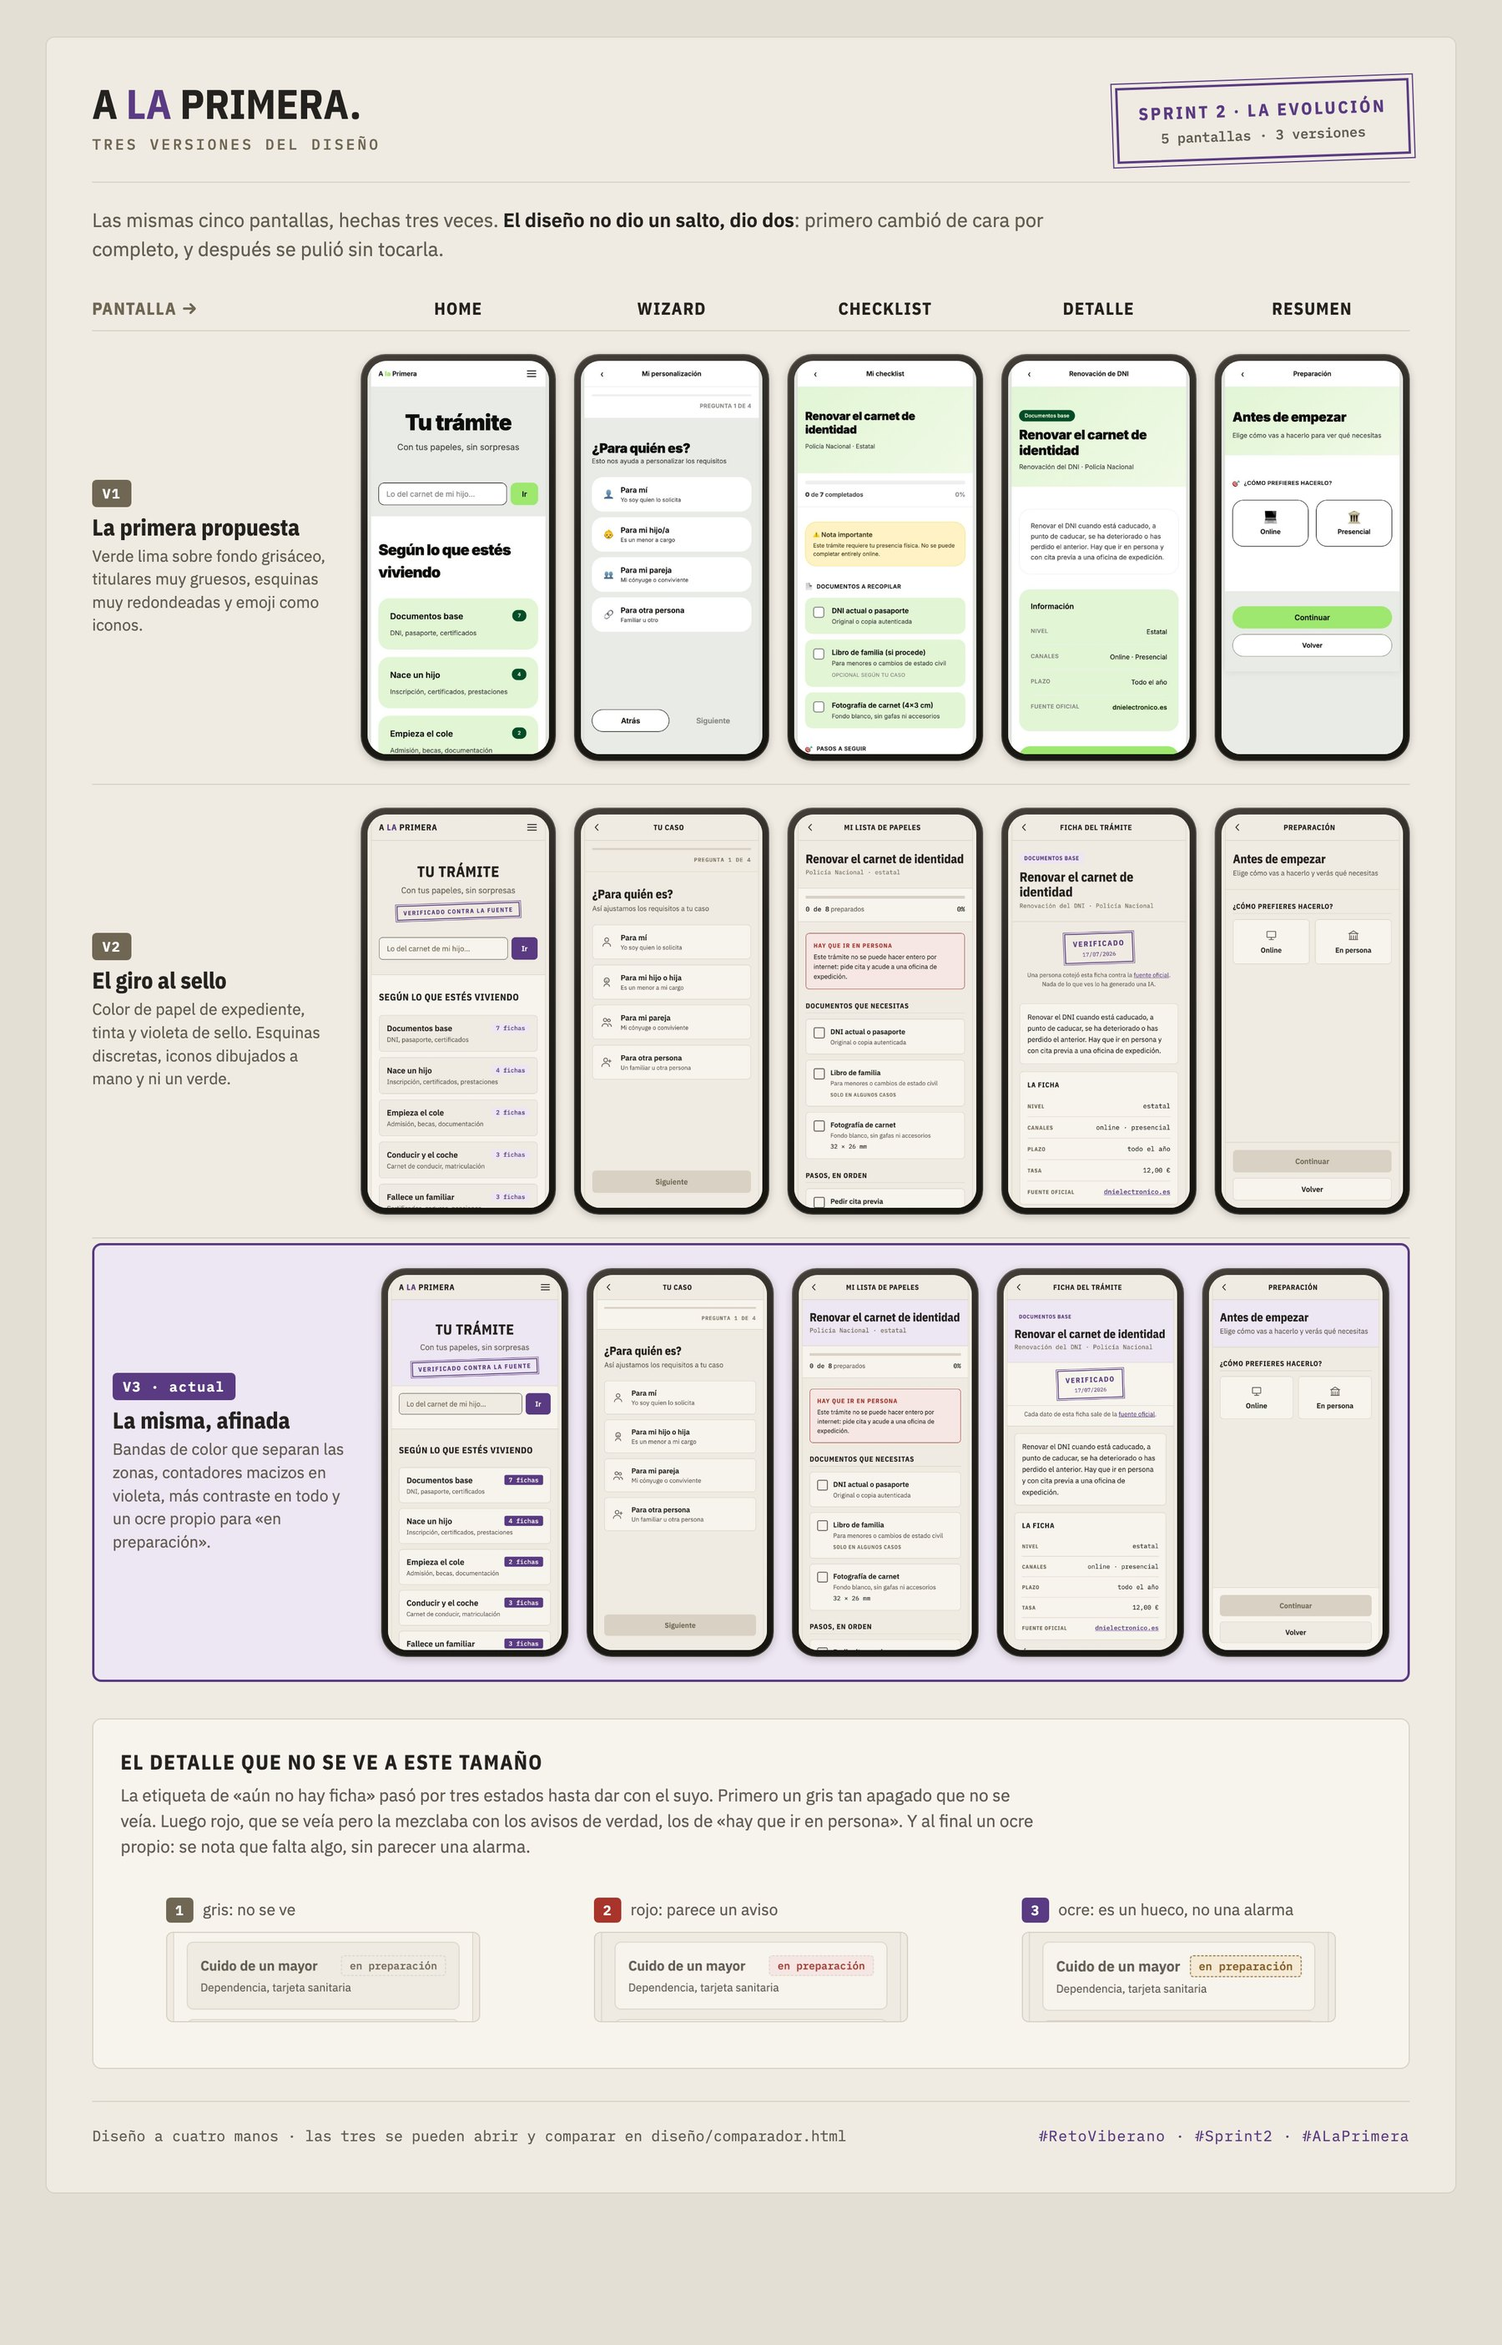
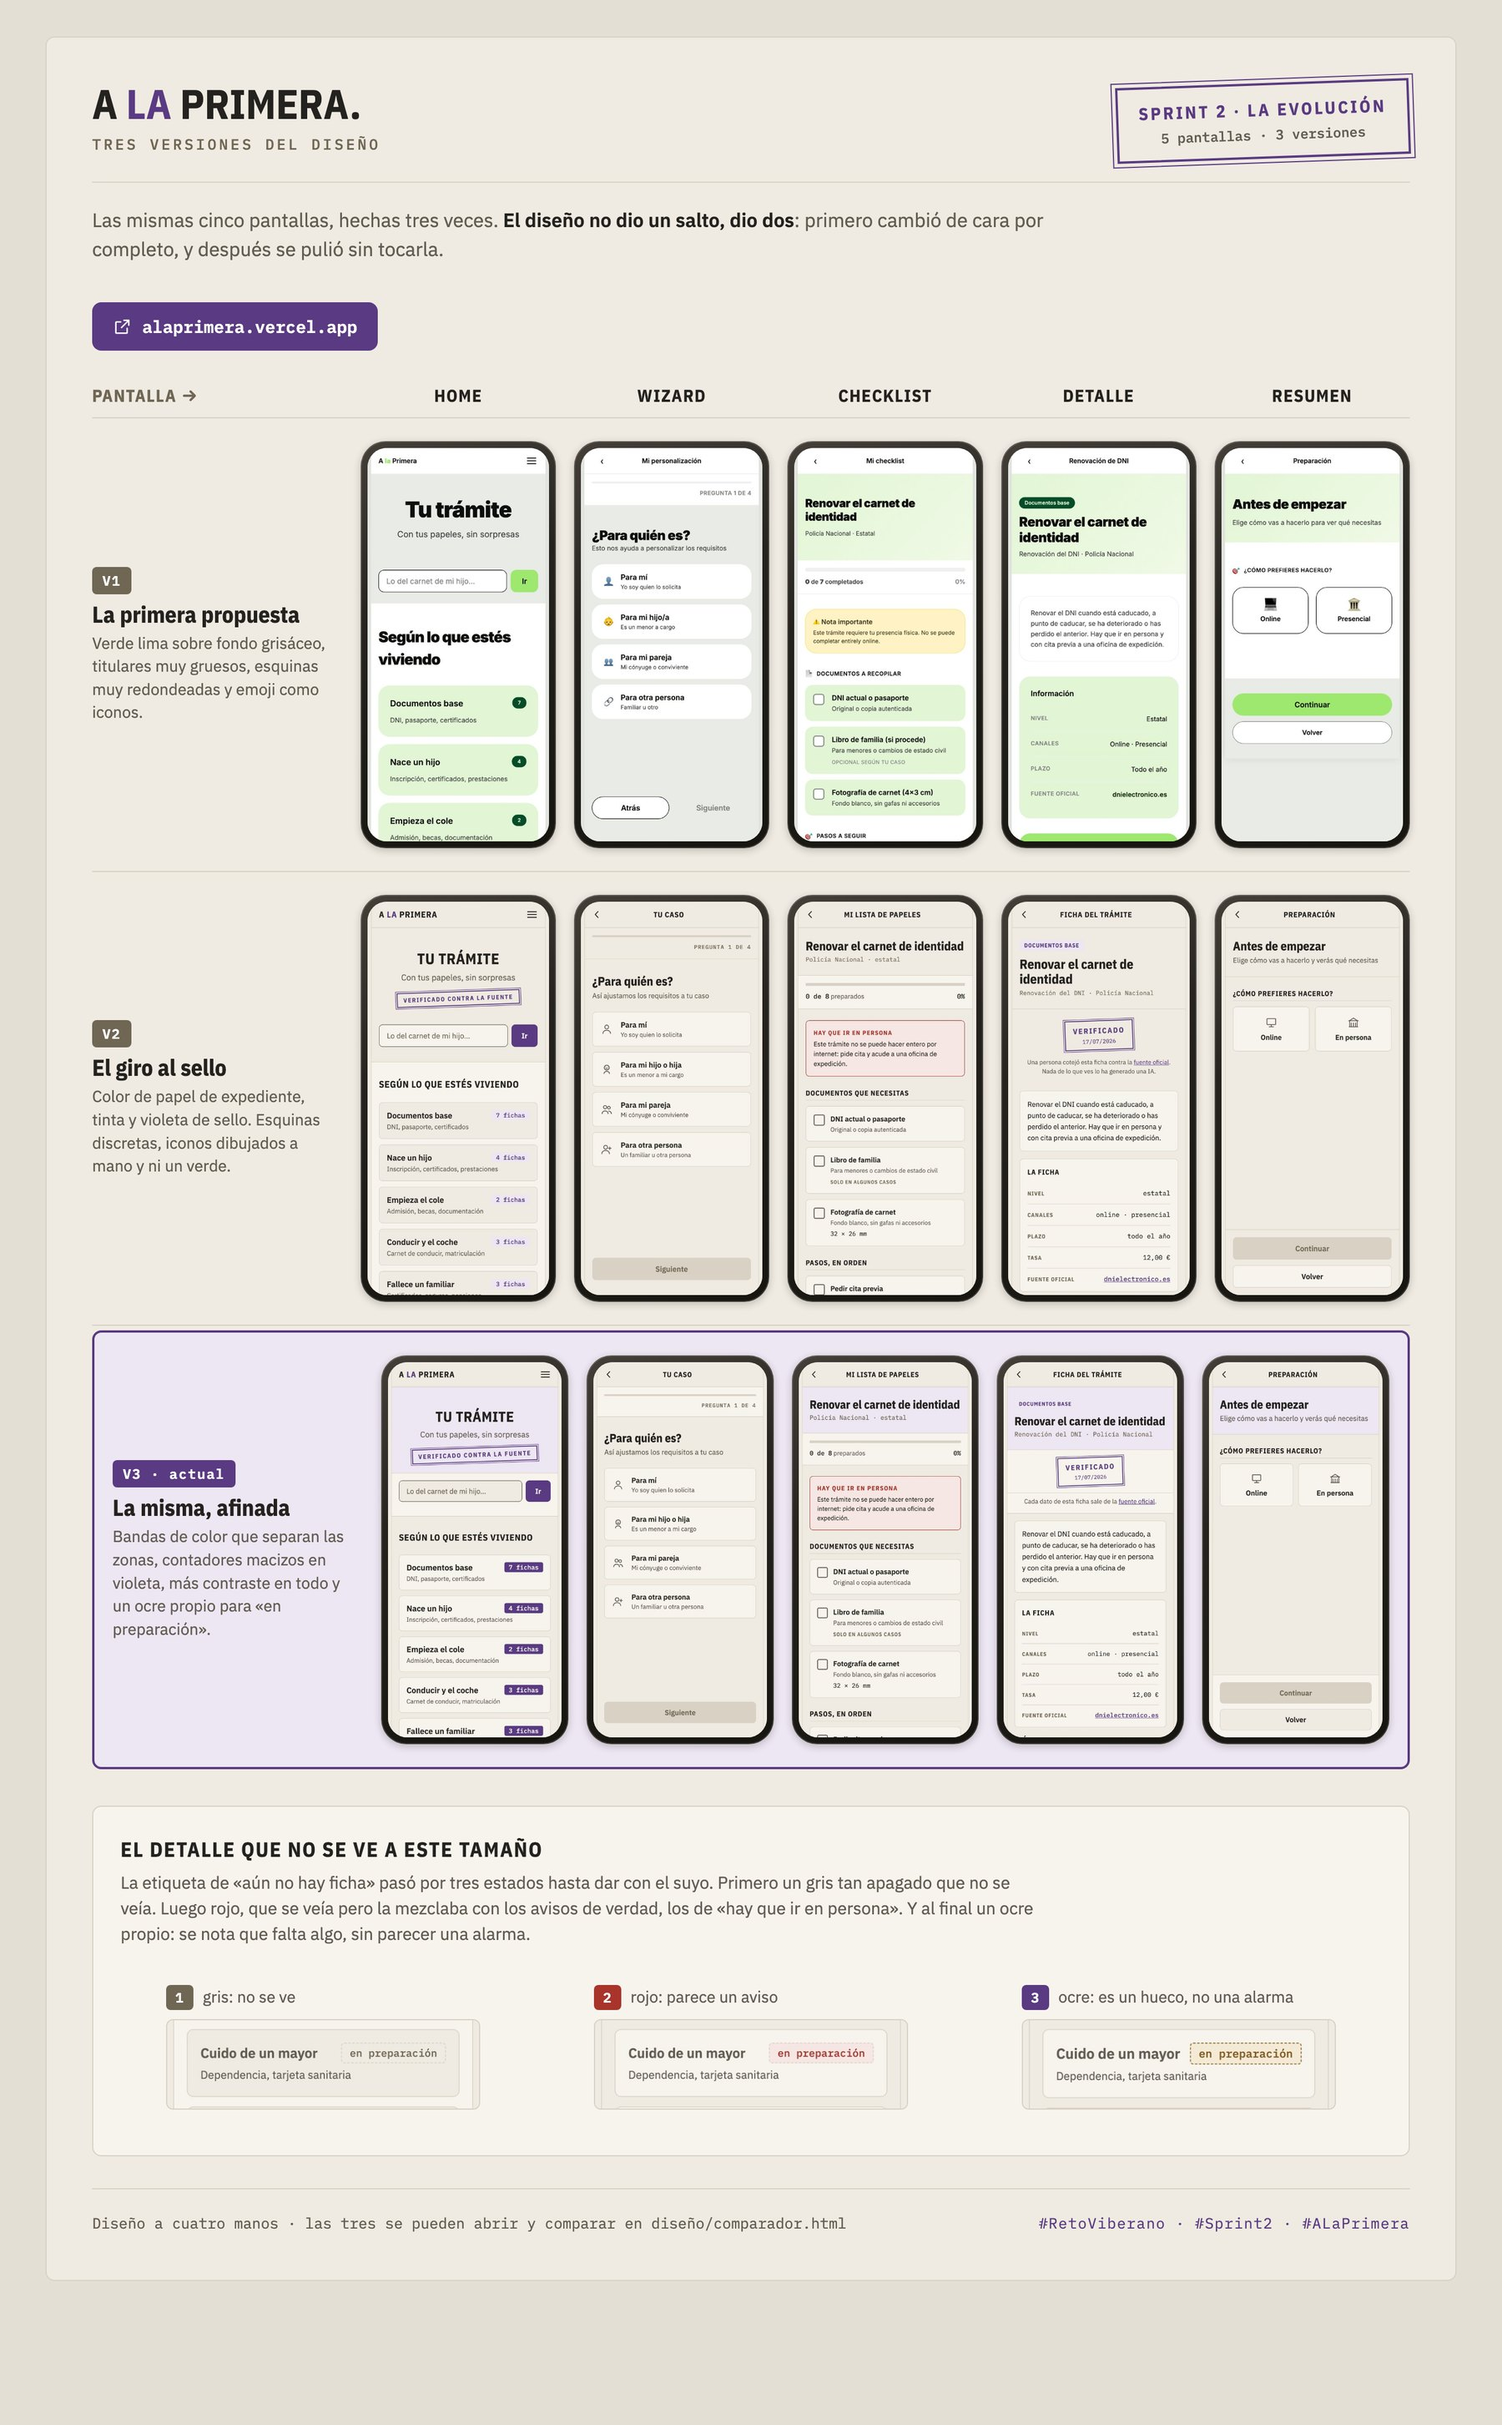
Poner la dirección de la app como botón en los dos carteles
Estaba escondida en una línea de pie, y es lo que más nos separa del resto: la
app se puede abrir. Ahora va maciza en violeta, con la misma pinta que el botón
principal del sistema, justo debajo de la frase que dice que ya funciona.

En el cartel principal se quita del pie para no repetirla.

diff --git a/diseño/cartel.html b/diseño/cartel.html
@@ -117,6 +117,30 @@
 
   .entradilla strong { color: var(--tinta); font-weight: 600; }
 
+
+  /* El enlace a la app, macizo como el botón principal del sistema: es lo único del
+     cartel en lo que se puede hacer clic, y la diferencia entre esto y una maqueta. */
+  .enlace-app {
+    display: inline-flex;
+    align-items: center;
+    gap: 9px;
+    margin-top: 18px;
+    padding: 10px 18px;
+    background-color: var(--sello);
+    color: #fff;
+    border-radius: 8px;
+    font-family: var(--mono);
+    font-size: 0.9375rem;
+    font-weight: 600;
+    text-decoration: none;
+  }
+
+  .enlace-app svg {
+    width: 17px;
+    height: 17px;
+    flex-shrink: 0;
+  }
+
   /* ── RÓTULOS ── */
   .rotulo-seccion {
     margin: 40px 0 4px;
@@ -513,6 +537,16 @@
     <strong>Ya funciona y se puede probar</strong>: no es solo una maqueta.
   </p>
 
+
+  <p>
+    <a class="enlace-app" href="https://alaprimera.vercel.app">
+      <svg viewBox="0 0 24 24" fill="none" stroke="currentColor" stroke-width="1.8" stroke-linecap="round" stroke-linejoin="round" aria-hidden="true">
+        <path d="M14 4h6v6M20 4l-9 9M18 14v5a1 1 0 0 1-1 1H5a1 1 0 0 1-1-1V7a1 1 0 0 1 1-1h5"></path>
+      </svg>
+      alaprimera.vercel.app
+    </a>
+  </p>
+
   <h2 class="rotulo-seccion">Qué hemos hecho</h2>
   <p class="rotulo-apoyo">Sprint 2 · el diseño</p>
 
@@ -751,7 +785,7 @@
   </div>
 
   <div class="pie-cartel">
-    <span>alaprimera.vercel.app · construida a base de prompts</span>
+    <span>Construida a base de prompts, sin escribir código a mano</span>
     <span class="etiquetas">#RetoViberano · #Sprint2 · #ALaPrimera</span>
   </div>
 

diff --git a/diseño/cartel-versiones.html b/diseño/cartel-versiones.html
@@ -117,6 +117,30 @@
 
   .entradilla strong { color: var(--tinta); font-weight: 600; }
 
+
+  /* El enlace a la app, macizo como el botón principal del sistema: es lo único del
+     cartel en lo que se puede hacer clic, y la diferencia entre esto y una maqueta. */
+  .enlace-app {
+    display: inline-flex;
+    align-items: center;
+    gap: 9px;
+    margin-top: 18px;
+    padding: 10px 18px;
+    background-color: var(--sello);
+    color: #fff;
+    border-radius: 8px;
+    font-family: var(--mono);
+    font-size: 0.9375rem;
+    font-weight: 600;
+    text-decoration: none;
+  }
+
+  .enlace-app svg {
+    width: 17px;
+    height: 17px;
+    flex-shrink: 0;
+  }
+
   /* ── RÓTULOS DE COLUMNA ── */
   .rotulos {
     display: grid;
@@ -323,6 +347,16 @@
   <p class="entradilla">
     Las mismas cinco pantallas, hechas tres veces. <strong>El diseño no dio un salto, dio
     dos</strong>: primero cambió de cara por completo, y después se pulió sin tocarla.
+  </p>
+
+
+  <p>
+    <a class="enlace-app" href="https://alaprimera.vercel.app">
+      <svg viewBox="0 0 24 24" fill="none" stroke="currentColor" stroke-width="1.8" stroke-linecap="round" stroke-linejoin="round" aria-hidden="true">
+        <path d="M14 4h6v6M20 4l-9 9M18 14v5a1 1 0 0 1-1 1H5a1 1 0 0 1-1-1V7a1 1 0 0 1 1-1h5"></path>
+      </svg>
+      alaprimera.vercel.app
+    </a>
   </p>
 
   <div class="rotulos">
